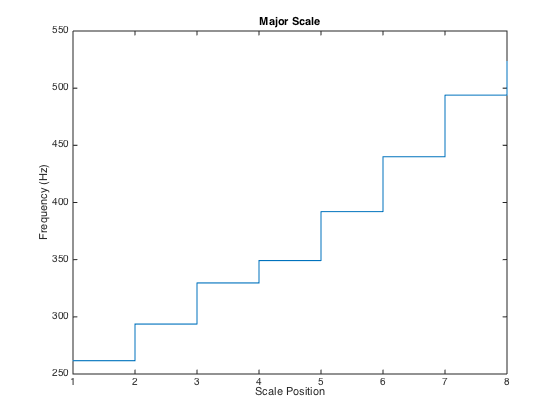
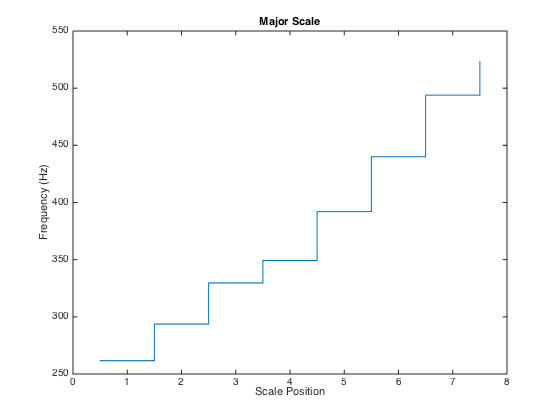
updated html files as well

diff --git a/html/exc_01_05.html b/html/exc_01_05.html
@@ -74,17 +74,17 @@ disp(freq_pitch(69));
 <span class="comment">% Calling the function with C4 as starting note.</span>
 scale_c_maj = freq_pitch(template_scale_major(60));
 disp(scale_c_maj);
-stairs(scale_c_maj);
+stairs([1:numel(scale_c_maj)]-0.5, scale_c_maj);
 title(<span class="string">'Major Scale'</span>)
 xlabel(<span class="string">'Scale Position'</span>)
 ylabel(<span class="string">'Frequency (Hz)'</span>)
-</pre><h2>Minor Scale<a name="3"></a></h2><p>Defining a template for a minor scale as an anonymous function.</p><pre class="codeinput">template_scale_minor = @(start) start + [0, 2, 3, 5, 7, 9, 11, 12];
+</pre><h2>Minor Scale<a name="3"></a></h2><p>Defining a template for a minor scale as an anonymous function.</p><pre class="codeinput">template_scale_minor = @(start) start + [0, 2, 3, 5, 7, 8, 10, 12];
 
 <span class="comment">% Calling the function with C4 as starting note.</span>
 scale_c_min = freq_pitch(template_scale_minor(60));
 disp(scale_c_min);
 figure;
-stairs(scale_c_min);
+stairs([1:numel(scale_c_min)]-0.5, scale_c_min);
 title(<span class="string">'Minor Scale'</span>)
 xlabel(<span class="string">'Scale Position'</span>)
 ylabel(<span class="string">'Frequency (Hz)'</span>)
@@ -100,7 +100,7 @@ ylabel(<span class="string">'Frequency (Hz)'</span>)
 
   Columns 1 through 7
 
-  261.6256  293.6648  311.1270  349.2282  391.9954  440.0000  493.8833
+  261.6256  293.6648  311.1270  349.2282  391.9954  415.3047  466.1638
 
   Column 8
 
@@ -125,7 +125,7 @@ template_scale_major = @(start) start + [0, 2, 4, 5, 7, 9, 11, 12];
 % Calling the function with C4 as starting note.
 scale_c_maj = freq_pitch(template_scale_major(60));
 disp(scale_c_maj);
-stairs(scale_c_maj);
+stairs([1:numel(scale_c_maj)]-0.5, scale_c_maj);
 title('Major Scale')
 xlabel('Scale Position')
 ylabel('Frequency (Hz)')
@@ -133,13 +133,13 @@ ylabel('Frequency (Hz)')
 
 %%% Minor Scale
 % Defining a template for a minor scale as an anonymous function.
-template_scale_minor = @(start) start + [0, 2, 3, 5, 7, 9, 11, 12];
+template_scale_minor = @(start) start + [0, 2, 3, 5, 7, 8, 10, 12];
 
 % Calling the function with C4 as starting note.
 scale_c_min = freq_pitch(template_scale_minor(60));
 disp(scale_c_min);
 figure;
-stairs(scale_c_min);
+stairs([1:numel(scale_c_min)]-0.5, scale_c_min);
 title('Minor Scale')
 xlabel('Scale Position')
 ylabel('Frequency (Hz)')
